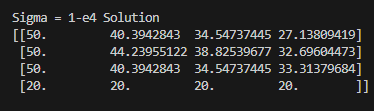
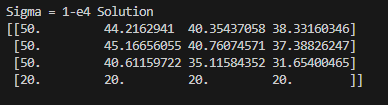
Assignment fixes

diff --git a/Assignments/Assignment 3/elliptic_PDE.py b/Assignments/Assignment 3/elliptic_PDE.py
@@ -117,14 +117,14 @@ while k < maxIter and np.max(eps[:-1, 1:]) > tol:
 
             # Store/Save the Previous Value
             oldVal = T[row, col]
-
+            
             # Cover the Appriate Cases
             if row == 0 and col == m:  # Top Right Corner
-                T[row, col] = 0.25 * (2 * T[row - 1, col]+ 2 * T[row, col - 1]+ dx**2 * sigma * (Ta - T[row, col] ** 4))
+                T[row, col] = 0.25 * (2 * T[row + 1, col]+ 2 * T[row, col - 1]+ dx**2 * sigma * (Ta - T[row, col] ** 4))
             elif row == 0:  # Top Side
-                T[row, col] = 0.25 * (T[row - 1, col]+ T[row + 1, col]+ 2 * T[row, col - 1]+ dx**2 * sigma * (Ta - T[row, col] ** 4))
+                T[row, col] = 0.25 * (2 * T[row + 1, col]+ T[row, col + 1]+T[row, col - 1]+ dx**2 * sigma * (Ta - T[row, col] ** 4))
             elif col == m:  # Right Side
-                T[row, col] = 0.25 * (2 * T[row - 1, col]+ T[row, col - 1]+ T[row, col - 1]+ dx**2 * sigma * (Ta - T[row, col] ** 4))
+                T[row, col] = 0.25 * (2 * T[row, col - 1] + T[row + 1, col] + T[row - 1, col] + dx**2 * sigma * (Ta - T[row, col] ** 4))
             else:  # Any other case
                 T[row, col] = 0.25 * (T[row - 1, col] + T[row + 1, col]+ T[row, col - 1]+ T[row, col - 1]+ dx**2 * sigma * (Ta - T[row, col] ** 4))
 

diff --git a/Assignments/Assignment 3/system_ODEs_question2.py b/Assignments/Assignment 3/system_ODEs_question2.py
@@ -70,7 +70,6 @@ def Solver (uGuess):
     # Return the Last Value that we Are trying to solve for
     return yGuess.y[1, -1]
 
-
 # Make an Initial Guess (Magic Number)
 #uGuessInit = [-0.001]
 uGuessInit = [solBVP.y[1, 0]]
